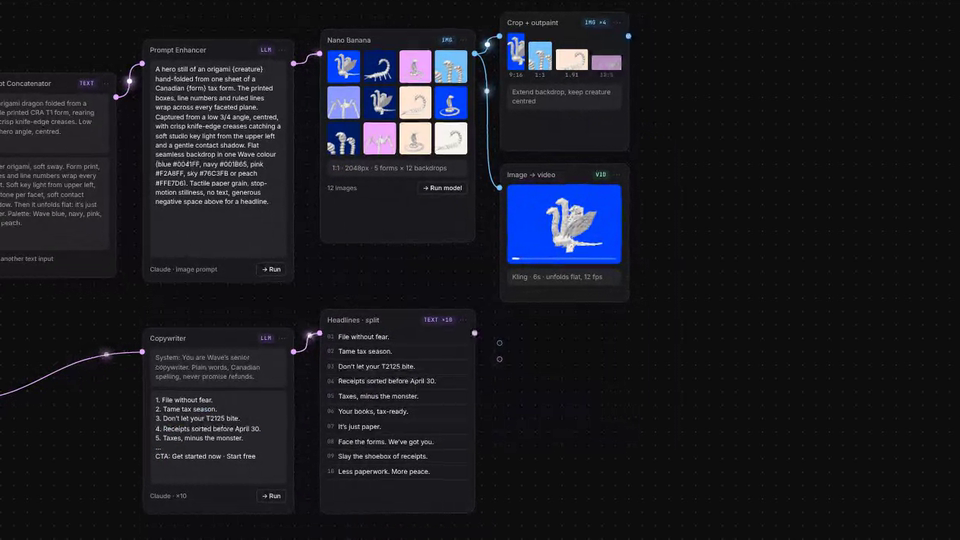
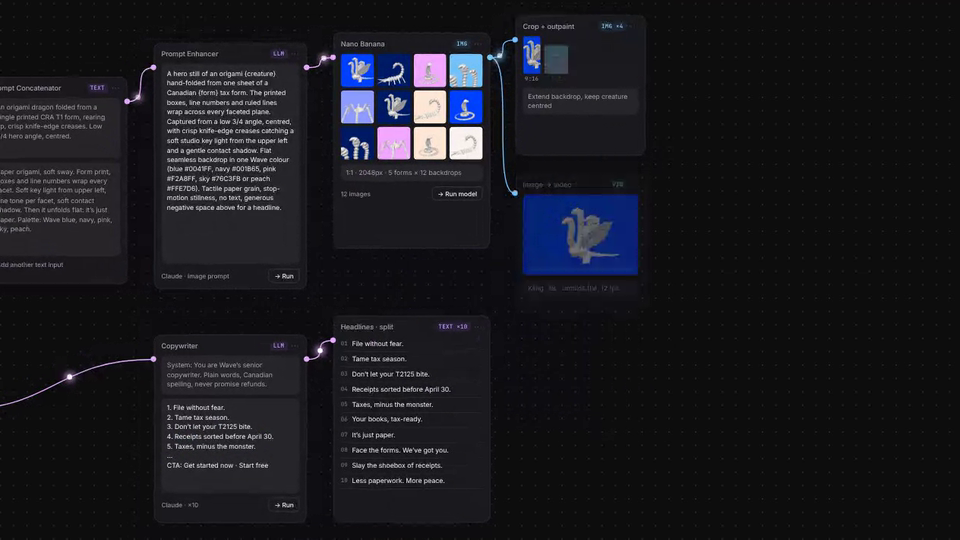
Wave: hydra necks bleed off the bottom in every ad frame, medium-length Read more arrow
Claude-Session: https://claude.ai/code/session_016rpgua64Lx5cLk6vLaSVPx

diff --git a/wave-file-without-fear/index.html b/wave-file-without-fear/index.html
@@ -231,7 +231,7 @@ h2.sec{font-size:60px;line-height:1.02;text-align:center;text-wrap:balance}
 .art{display:flex!important;flex-direction:column}
 .art .tx{padding:24px 24px 26px;display:flex;flex-direction:column;flex:1}
 .art .more2{margin-top:auto;padding-top:24px;display:inline-flex;align-items:center;gap:10px;color:var(--blue);font:800 14px var(--sans);letter-spacing:.1em;text-transform:uppercase}
-.art .more2 svg{width:14px;height:12px;transition:transform .25s}
+.art .more2 svg{width:17px;height:12px;transition:transform .25s}
 .art:hover .more2 svg{transform:translateX(4px)}
 .art h3{font-size:21px;font-weight:600;line-height:1.27}
 .art p{font-size:17px;line-height:1.45;margin-top:16px}
@@ -515,9 +515,9 @@ html body nav.back:not(.sb-panel):not(:has(>div))>a,html body nav.back:not(.sb-p
     <h2 class="sec serif navy-t">Level up your tax knowledge</h2>
     <p class="sub">Stop the tax time terror before it starts. Check out our guides to get prepared.</p>
     <div class="arts" id="arts">
-      <a class="art" href="#" data-c="spider" data-f="T4A" data-cam="0.5,0.5,1.3" data-bg="#f2a8ff" data-sh="" data-name="T4A spider"><div class="ill"><canvas></canvas></div><div class="tx"><h3>2026 tax checklist: Get ready for tax season</h3><p>As we kick off the new year, it’s time to get your business ready for tax filing season. Follow these steps to get your books in shape.</p><span class="more2">Read more<svg viewBox="0 0 14 12" aria-hidden="true"><path d="M5 6h7M7 1l5 5-5 5" fill="none" stroke="currentColor" stroke-width="2" stroke-linecap="round" stroke-linejoin="round"/></svg></span></div></a>
-      <a class="art" href="#" data-c="hydra" data-f="T2125" data-cam="0.5,0.74,1.55" data-bleed="1" data-bg="#001b65" data-sh="" data-name="Deductions hydra"><div class="ill"><canvas></canvas></div><div class="tx"><h3>The ultimate guide to self-employed tax deductions</h3><p>Everything you need to know about tax deductions for the self-employed, common examples of what you can deduct, and how to maximize those deductions.</p><span class="more2">Read more<svg viewBox="0 0 14 12" aria-hidden="true"><path d="M5 6h7M7 1l5 5-5 5" fill="none" stroke="currentColor" stroke-width="2" stroke-linecap="round" stroke-linejoin="round"/></svg></span></div></a>
-      <a class="art" href="#" data-c="snake" data-f="GST34" data-cam="0.5,0.5,2.2" data-bg="#8a3ffc" data-sh="" data-name="GST/HST cobra"><div class="ill"><canvas></canvas></div><div class="tx"><h3>5 reasons why you should file your taxes ASAP</h3><p>Although filing your taxes might not be top of mind right now, we’ve looked into the top reasons why filing your taxes now can benefit you, your business, and others.</p><span class="more2">Read more<svg viewBox="0 0 14 12" aria-hidden="true"><path d="M5 6h7M7 1l5 5-5 5" fill="none" stroke="currentColor" stroke-width="2" stroke-linecap="round" stroke-linejoin="round"/></svg></span></div></a>
+      <a class="art" href="#" data-c="spider" data-f="T4A" data-cam="0.5,0.5,1.3" data-bg="#f2a8ff" data-sh="" data-name="T4A spider"><div class="ill"><canvas></canvas></div><div class="tx"><h3>2026 tax checklist: Get ready for tax season</h3><p>As we kick off the new year, it’s time to get your business ready for tax filing season. Follow these steps to get your books in shape.</p><span class="more2">Read more<svg viewBox="0 0 17 12" aria-hidden="true"><path d="M3 6h12M10 1l5 5-5 5" fill="none" stroke="currentColor" stroke-width="2" stroke-linecap="round" stroke-linejoin="round"/></svg></span></div></a>
+      <a class="art" href="#" data-c="hydra" data-f="T2125" data-cam="0.5,0.74,1.55" data-bleed="1" data-bg="#001b65" data-sh="" data-name="Deductions hydra"><div class="ill"><canvas></canvas></div><div class="tx"><h3>The ultimate guide to self-employed tax deductions</h3><p>Everything you need to know about tax deductions for the self-employed, common examples of what you can deduct, and how to maximize those deductions.</p><span class="more2">Read more<svg viewBox="0 0 17 12" aria-hidden="true"><path d="M3 6h12M10 1l5 5-5 5" fill="none" stroke="currentColor" stroke-width="2" stroke-linecap="round" stroke-linejoin="round"/></svg></span></div></a>
+      <a class="art" href="#" data-c="snake" data-f="GST34" data-cam="0.5,0.5,2.2" data-bg="#8a3ffc" data-sh="" data-name="GST/HST cobra"><div class="ill"><canvas></canvas></div><div class="tx"><h3>5 reasons why you should file your taxes ASAP</h3><p>Although filing your taxes might not be top of mind right now, we’ve looked into the top reasons why filing your taxes now can benefit you, your business, and others.</p><span class="more2">Read more<svg viewBox="0 0 17 12" aria-hidden="true"><path d="M3 6h12M10 1l5 5-5 5" fill="none" stroke="currentColor" stroke-width="2" stroke-linecap="round" stroke-linejoin="round"/></svg></span></div></a>
     </div>
   </div>
 </section>
@@ -711,7 +711,7 @@ const CREATURES = {
       let w = (s < 0.05 ? mix(0.035, 0.1, s / 0.05) : s < 0.3 ? 0.1 : 0.12) * pleatX(i);
       let p = tube(f, vv, Math.max(w, hood), w, 0.84);
       if (i === 0) p = V.add(p, V.mul(f.t, -0.07));
-      if (s > 0.8) p[1] -= ((s - 0.8) / 0.2) * 1.8; // the base of each neck runs on down, well past the frame, so it always bleeds off the bottom
+      if (s > 0.8) p[1] -= ((s - 0.8) / 0.2) * 6; // the base of each neck runs on down, well past the frame, so it always bleeds off the bottom
       return p;
     },
   },

diff --git a/wave-tax-weave-walkthrough/index.html b/wave-tax-weave-walkthrough/index.html
@@ -400,7 +400,7 @@ const CREATURES = {
       let w = (s < 0.05 ? mix(0.035, 0.1, s / 0.05) : s < 0.3 ? 0.1 : 0.12) * pleatX(i);
       let p = tube(f, vv, Math.max(w, hood), w, 0.84);
       if (i === 0) p = V.add(p, V.mul(f.t, -0.07));
-      if (s > 0.8) p[1] -= ((s - 0.8) / 0.2) * 1.8; // the base of each neck runs on down, well past the frame, so it always bleeds off the bottom
+      if (s > 0.8) p[1] -= ((s - 0.8) / 0.2) * 6; // the base of each neck runs on down, well past the frame, so it always bleeds off the bottom
       return p;
     },
   },
@@ -813,7 +813,8 @@ const CTA=['Get tax-ready','Get tax-ready','Start free','Get tax-ready','Start f
 /* ad template: fills a box of w×h with art, headline, wordmark and CTA */
 const SUB=['Wave keeps your books ready, year-round.','Get your books ready by April 30.','Free accounting for Canadian small business.','Tax-ready books, all year long.','Tax-ready books, all year long.','Reports your accountant will thank you for.'];
 function adHTML(ai,hi,w,h,live){
-  const IMG=(st,aw)=>live?`<canvas class="art" data-live="${ai}" style="${st};height:${aw/1.3}px"></canvas>`:`<img class="art" data-art="${ai}" src="${ART[ai].src}" style="${st}">`;
+  const IMG=(st,aw)=>{if(ART[ai].kind==='hydra'){st=st.replace(/top:[^;]+/,`top:${h-aw/1.3/2+4}px`);}return IMG0(st,aw);};
+  const IMG0=(st,aw)=>live?`<canvas class="art" data-live="${ai}" style="${st};height:${aw/1.3}px"></canvas>`:`<img class="art" data-art="${ai}" src="${ART[ai].src}" style="${st}">`;
   const a=ART[ai],r=w/h,fg=a.dark?'#fff':'#001b65',em=a.dark?'#e8aaff':'#0041ff',ctaBg=a.dark?'#e8aaff':'#0041ff',ctaFg=a.dark?'#001b65':'#fff',H=rich(HEADR[hi],em);
   const u=Math.min(w,h);let s='';
   if(r<.8){ // vertical 9:16
